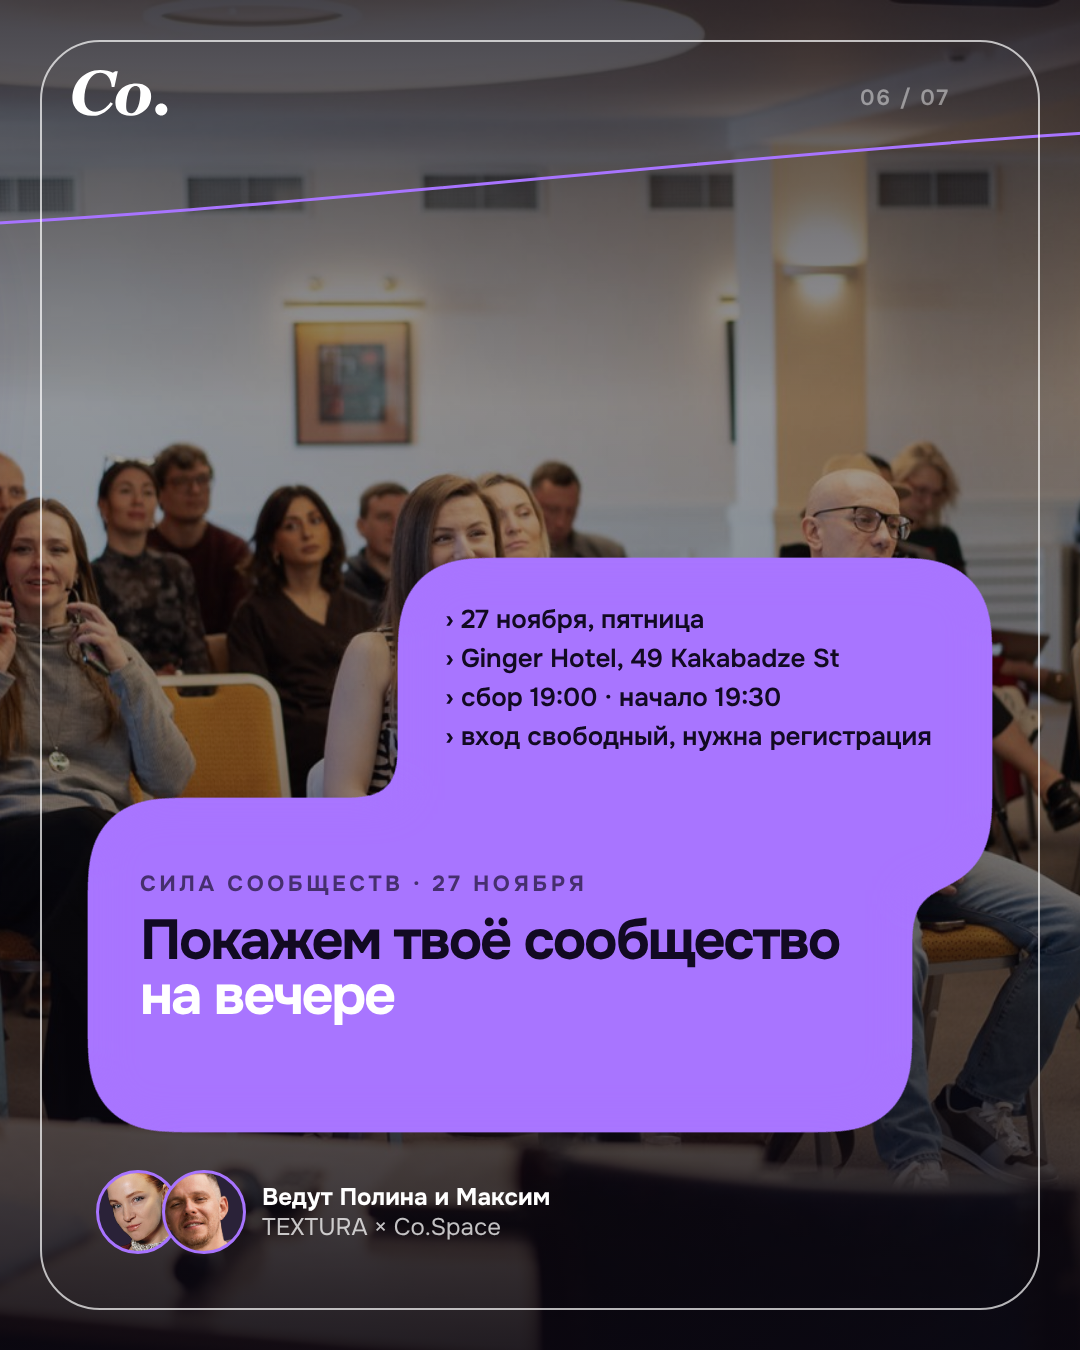
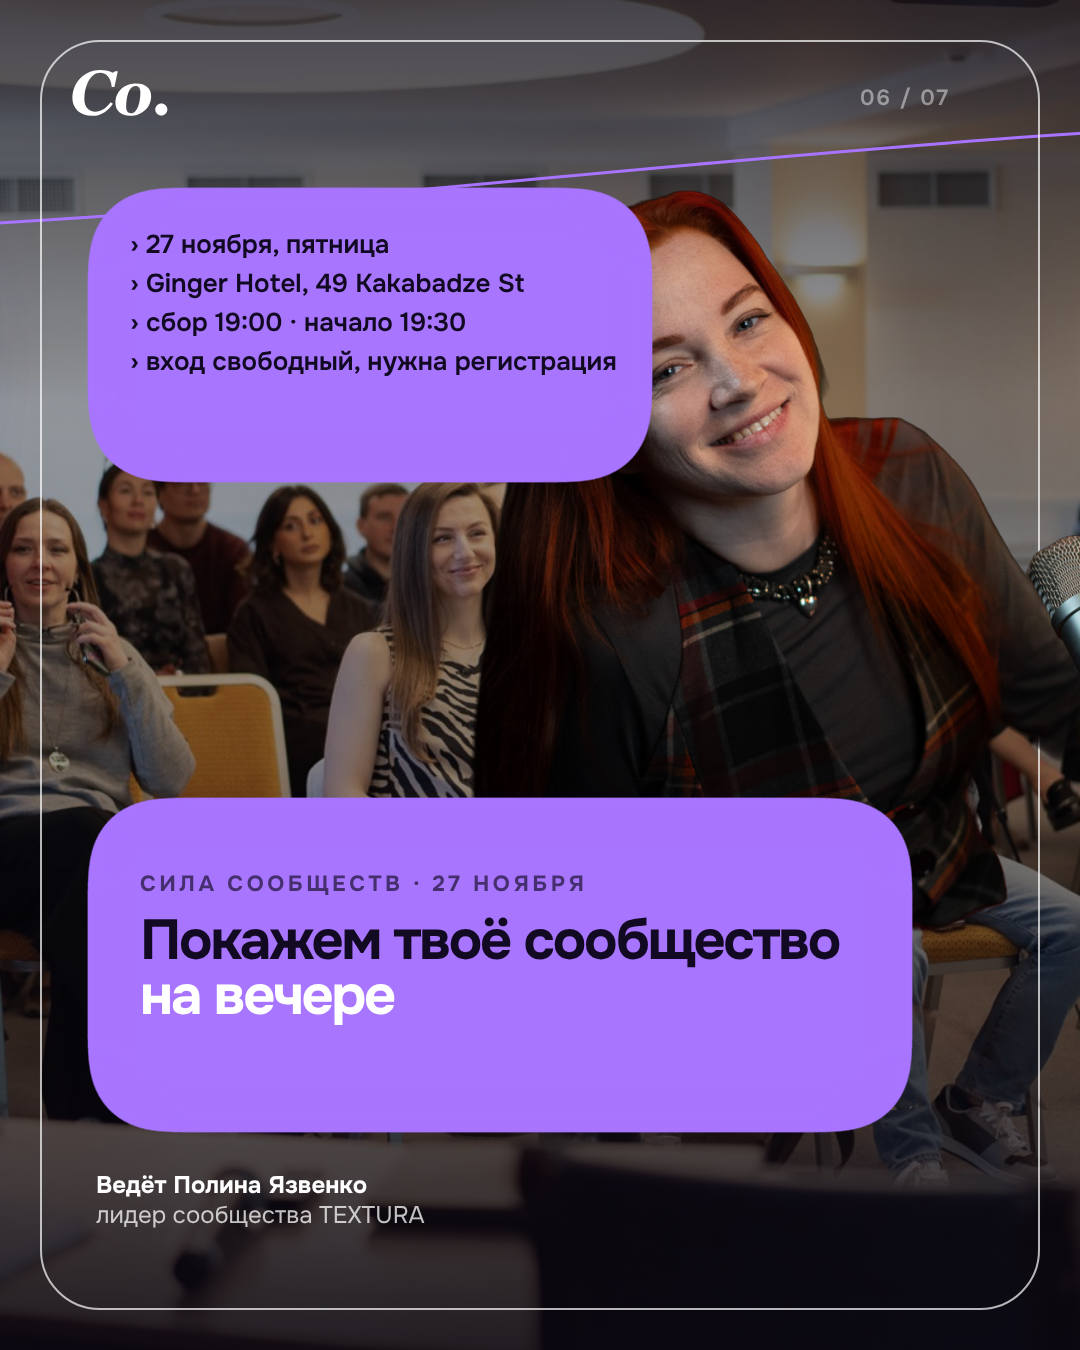
Лидеры, слайд 6: Полина без фона, «Ведёт Полина Язвенко»
Claude-Session: https://claude.ai/code/session_01EUhV7vaX3V2s8FuVCAhgM5

Changed region(s): [[0.0611, 0.1244, 1.0, 0.6844], [0.0917, 0.8711, 0.5194, 0.9333]]

diff --git a/creatives/src/poster/wide/leaders.html b/creatives/src/poster/wide/leaders.html
@@ -50,12 +50,10 @@ transform:rotate(5deg);box-shadow:0 40px 90px rgba(0,0,0,.6),0 0 120px rgba(168,
 <div><div style="font-size:24px;font-weight:700">Co.Space бот</div><div style="font-size:18px;color:rgba(255,255,255,.45)">онлайн</div></div></div>
 <div class="msg me">t.me/твой_чат</div>
 <div class="msg bot">Это сообщество уже есть в каталоге Co.Space. Сделать страницу вашей?<span class="btn">✅ Да, это моё — отправить заявку</span></div>
-<div class="msg bot">Нет страницы? Давайте заведём — это около 3 минут.<span class="btn">Создать страницу</span></div></div><div class="ph" style="left:5400px;top:0;width:1080px;height:1350px;border-radius:0;background-image:url(../audience.jpg);background-position:45% 50%;filter:brightness(.7) saturate(.85);z-index:1"></div><div class="a" style="left:5400px;top:0;width:1080px;height:1350px;background:linear-gradient(180deg,rgba(11,8,18,.65),rgba(11,8,18,.1) 30%,rgba(11,8,18,.2) 60%,rgba(11,8,18,.85));z-index:2"></div><div class="a" style="left:5440px;top:40px;width:1000px;height:1270px;border:2px solid rgba(255,255,255,.7);border-radius:60px;z-index:4"></div><svg class="a" style="left:0;top:0;z-index:5" width="7560" height="1350"><defs><filter id="goo"><feGaussianBlur in="SourceGraphic" stdDeviation="22"/><feColorMatrix values="1 0 0 0 0  0 1 0 0 0  0 0 1 0 0  0 0 0 36 -16"/></filter></defs><g filter="url(#goo)"><rect x="5800" y="560" width="590" height="330" rx="64" fill="#A874FF"/><rect x="5490" y="800" width="820" height="330" rx="64" fill="#A874FF"/></g></svg><div class="a" style="left:5845px;top:600px;z-index:6;color:#120A22;font-size:26px;line-height:1.5;font-weight:600">
+<div class="msg bot">Нет страницы? Давайте заведём — это около 3 минут.<span class="btn">Создать страницу</span></div></div><div class="ph" style="left:5400px;top:0;width:1080px;height:1350px;border-radius:0;background-image:url(../audience.jpg);background-position:45% 50%;filter:brightness(.7) saturate(.85);z-index:1"></div><div class="a" style="left:5400px;top:0;width:1080px;height:1350px;background:linear-gradient(180deg,rgba(11,8,18,.65),rgba(11,8,18,.1) 30%,rgba(11,8,18,.2) 60%,rgba(11,8,18,.85));z-index:2"></div><div class="a" style="left:5440px;top:40px;width:1000px;height:1270px;border:2px solid rgba(255,255,255,.7);border-radius:60px;z-index:4"></div><div class="cut" style="left:5870px;top:190px;height:920px;width:610px;overflow:hidden;z-index:4"><img src="../polina2_cut.png" style="height:1000px"></div><svg class="a" style="left:0;top:0;z-index:5" width="7560" height="1350"><defs><filter id="goo"><feGaussianBlur in="SourceGraphic" stdDeviation="22"/><feColorMatrix values="1 0 0 0 0  0 1 0 0 0  0 0 1 0 0  0 0 0 36 -16"/></filter></defs><g filter="url(#goo)"><rect x="5490" y="190" width="560" height="290" rx="64" fill="#A874FF"/><rect x="5490" y="800" width="820" height="330" rx="64" fill="#A874FF"/></g></svg><div class="a" style="left:5530px;top:225px;z-index:6;color:#120A22;font-size:26px;line-height:1.5;font-weight:600">
 <div>› 27 ноября, пятница</div><div>› Ginger Hotel, 49 Kakabadze St</div><div>› сбор 19:00 · начало 19:30</div><div>› вход свободный, нужна регистрация</div></div><div class="a" style="left:5540px;top:870px;z-index:6;color:#120A22"><div class="kick" style="color:#120A22;opacity:.65">Сила сообществ · 27 ноября</div>
 <div class="h" style="font-size:56px;margin-top:16px">Покажем твоё сообщество<br><em style="color:#fff">на вечере</em></div></div><div class="a" style="left:5496px;top:1170px;z-index:6;display:flex;align-items:center;gap:16px">
-<div class="ava" style="background-image:url(../polina_cut.png);background-size:330%;background-position:40% 8%"></div>
-<div class="ava" style="background-image:url(../max_cut.png);background-size:220%;background-position:42% 10%;margin-left:-34px"></div>
-<div style="font-size:24px;line-height:1.25"><b>Ведут Полина и Максим</b><br><span style="color:rgba(255,255,255,.75)">TEXTURA × Co.Space</span></div></div><svg class="a" style="left:0;top:0;z-index:4" width="7560" height="1350"><defs><filter id="goo"><feGaussianBlur in="SourceGraphic" stdDeviation="22"/><feColorMatrix values="1 0 0 0 0  0 1 0 0 0  0 0 1 0 0  0 0 0 36 -16"/></filter></defs><g filter="url(#goo)"><rect x="6520" y="150" width="1000" height="1160" rx="64" fill="#A874FF"/><rect x="6920" y="40" width="200" height="200" rx="64" fill="#A874FF"/></g></svg><div class="a" style="left:6980px;top:52px;width:80px;height:120px;background:#0B0812;border-radius:0 0 40px 40px;z-index:4;display:none"></div><div class="a" style="left:6590px;top:300px;z-index:6;color:#120A22">
+<div style="font-size:24px;line-height:1.25"><b>Ведёт Полина Язвенко</b><br><span style="color:rgba(255,255,255,.75)">лидер сообщества TEXTURA</span></div></div><svg class="a" style="left:0;top:0;z-index:4" width="7560" height="1350"><defs><filter id="goo"><feGaussianBlur in="SourceGraphic" stdDeviation="22"/><feColorMatrix values="1 0 0 0 0  0 1 0 0 0  0 0 1 0 0  0 0 0 36 -16"/></filter></defs><g filter="url(#goo)"><rect x="6520" y="150" width="1000" height="1160" rx="64" fill="#A874FF"/><rect x="6920" y="40" width="200" height="200" rx="64" fill="#A874FF"/></g></svg><div class="a" style="left:6980px;top:52px;width:80px;height:120px;background:#0B0812;border-radius:0 0 40px 40px;z-index:4;display:none"></div><div class="a" style="left:6590px;top:300px;z-index:6;color:#120A22">
 <div class="kick" style="color:#120A22;opacity:.65">Сила сообществ · 27 ноября</div>
 <div class="h" style="font-size:120px;margin-top:28px;font-weight:800">Сообщество<br>сильнее<br>одиночества</div>
 <div style="margin-top:56px"><span class="pillw" style="background:#120A22;color:#fff;font-size:32px;padding:24px 38px"><i></i>Добавить сообщество — ссылка в профиле</span></div>

diff --git a/creatives/src/poster/build_wide.py b/creatives/src/poster/build_wide.py
@@ -150,15 +150,14 @@ x = 5 * S
 els.append(f'<div class="ph" style="left:{x}px;top:0;width:{S}px;height:{H}px;border-radius:0;background-image:url(../audience.jpg);background-position:45% 50%;filter:brightness(.7) saturate(.85);z-index:1"></div>')
 els.append(f'<div class="a" style="left:{x}px;top:0;width:{S}px;height:{H}px;background:linear-gradient(180deg,rgba(11,8,18,.65),rgba(11,8,18,.1) 30%,rgba(11,8,18,.2) 60%,rgba(11,8,18,.85));z-index:2"></div>')
 els.append(f'<div class="a" style="left:{x + 40}px;top:40px;width:{S - 80}px;height:{H - 80}px;border:2px solid rgba(255,255,255,.7);border-radius:60px;z-index:4"></div>')
-els.append(blob([(x + 400, 560, 590, 330), (x + 90, 800, 820, 330)], z=5))
-els.append(f'''<div class="a" style="left:{x + 445}px;top:600px;z-index:6;color:{INK};font-size:26px;line-height:1.5;font-weight:600">
+els.append(f'<div class="cut" style="left:{x + 470}px;top:190px;height:920px;width:610px;overflow:hidden;z-index:4"><img src="../polina2_cut.png" style="height:1000px"></div>')
+els.append(blob([(x + 90, 190, 560, 290), (x + 90, 800, 820, 330)], z=5))
+els.append(f'''<div class="a" style="left:{x + 130}px;top:225px;z-index:6;color:{INK};font-size:26px;line-height:1.5;font-weight:600">
 <div>› 27 ноября, пятница</div><div>› Ginger Hotel, 49 Kakabadze St</div><div>› сбор 19:00 · начало 19:30</div><div>› вход свободный, нужна регистрация</div></div>''')
 els.append(f'''<div class="a" style="left:{x + 140}px;top:870px;z-index:6;color:{INK}"><div class="kick" style="color:{INK};opacity:.65">Сила сообществ · 27 ноября</div>
 <div class="h" style="font-size:56px;margin-top:16px">Покажем твоё сообщество<br><em style="color:#fff">на вечере</em></div></div>''')
 els.append(f'''<div class="a" style="left:{x + 96}px;top:1170px;z-index:6;display:flex;align-items:center;gap:16px">
-<div class="ava" style="background-image:url(../polina_cut.png);background-size:330%;background-position:40% 8%"></div>
-<div class="ava" style="background-image:url(../max_cut.png);background-size:220%;background-position:42% 10%;margin-left:-34px"></div>
-<div style="font-size:24px;line-height:1.25"><b>Ведут Полина и Максим</b><br><span style="color:rgba(255,255,255,.75)">TEXTURA × Co.Space</span></div></div>''')
+<div style="font-size:24px;line-height:1.25"><b>Ведёт Полина Язвенко</b><br><span style="color:rgba(255,255,255,.75)">лидер сообщества TEXTURA</span></div></div>''')
 
 # ---------- 7. Финал ----------
 x = 6 * S
